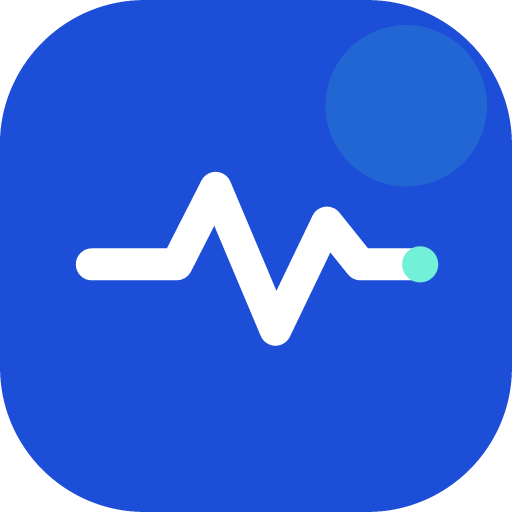
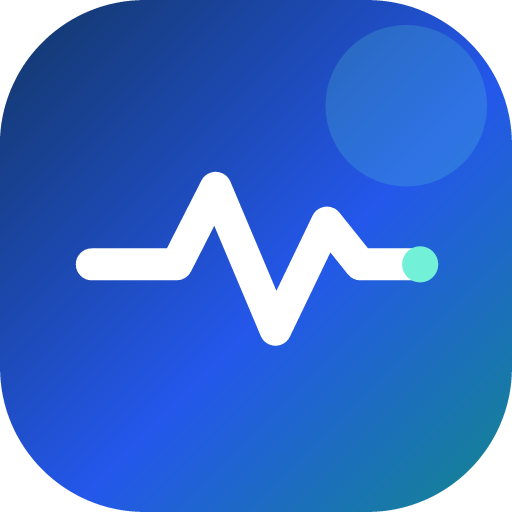
Unify PayPulse brand identity

diff --git a/src/PayPulseLogo.tsx b/src/PayPulseLogo.tsx
@@ -1,3 +1,5 @@
+import { useId } from "react"
+
 type PayPulseLogoProps = {
   className?: string
   showName?: boolean
@@ -9,6 +11,8 @@ export default function PayPulseLogo({
   showName = false,
   nameClassName = "",
 }: PayPulseLogoProps) {
+  const gradientId = useId().replace(/:/g, "")
+
   return (
     <span className={`paypulse-logo ${className}`.trim()}>
       <svg
@@ -18,8 +22,22 @@ export default function PayPulseLogo({
         aria-label={showName ? undefined : "PayPulse"}
         aria-hidden={showName ? true : undefined}
       >
-        <rect width="368" height="368" rx="104" fill="#1D4ED8" />
-        <circle cx="292" cy="76" r="58" fill="#39D3C3" opacity=".18" />
+        <defs>
+          <linearGradient
+            id={gradientId}
+            x1="30"
+            y1="30"
+            x2="338"
+            y2="338"
+            gradientUnits="userSpaceOnUse"
+          >
+            <stop stopColor="#153B78" />
+            <stop offset=".58" stopColor="#2457EB" />
+            <stop offset="1" stopColor="#167E9E" />
+          </linearGradient>
+        </defs>
+        <rect width="368" height="368" rx="104" fill={`url(#${gradientId})`} />
+        <circle cx="292" cy="76" r="58" fill="#5AE1D2" opacity=".2" />
         <path
           d="M66 190h61l28-55 43 102 37-77 24 30h43"
           fill="none"

diff --git a/src/index.css b/src/index.css
@@ -10,13 +10,13 @@
   --surface-soft: #f3f7fc;
   --ink: #10243f;
   --muted: #60728a;
-  --link: #1b5bbb;
+  --link: #2457eb;
   --line: #dce5f0;
   --accent: #20b9a7;
-  --accent-strong: #1b5bbb;
+  --accent-strong: #2457eb;
   --accent-soft: #e6f7f3;
   --brand-navy: #0c2344;
-  --brand-blue: #1b5bbb;
+  --brand-blue: #2457eb;
   --brand-gold: #20b9a7;
   --blue: #e8f1ff;
   --peach: #ffe3d4;
@@ -533,7 +533,7 @@ input:focus-visible, select:focus-visible, textarea:focus-visible {
 .powered-by { padding: 26px 0 10px; display: grid; justify-items: center; gap: 8px; opacity: .75; }
 .brand { display: flex; align-items: center; gap: 7px; }
 .paypulse-logo { display: inline-flex; align-items: center; flex-shrink: 0; gap: 7px; }
-.paypulse-logo-mark { width: 29px; height: 29px; display: block; border-radius: 9px; box-shadow: 0 6px 14px rgb(29 78 216 / 24%); }
+.paypulse-logo-mark { width: 29px; height: 29px; display: block; border-radius: 9px; box-shadow: 0 7px 16px rgb(36 87 235 / 22%); }
 .paypulse-logo-name { display: inline-flex; align-items: baseline; color: var(--ink); font-size: 14px; font-weight: 850; letter-spacing: -.045em; line-height: 1; }
 .paypulse-wordmark-accent { color: var(--brand-blue); }
 .brand strong { font-size: 14px; font-weight: 850; letter-spacing: -.035em; }

diff --git a/index.html b/index.html
@@ -3,7 +3,7 @@
   <head>
     <meta charset="UTF-8" />
     <meta name="viewport" content="width=device-width, initial-scale=1.0" />
-    <meta name="theme-color" content="#1D4ED8" />
+    <meta name="theme-color" content="#2457EB" />
     <meta name="application-name" content="PayPulse" />
     <meta name="apple-mobile-web-app-title" content="PayPulse" />
     <meta property="og:type" content="website" />
